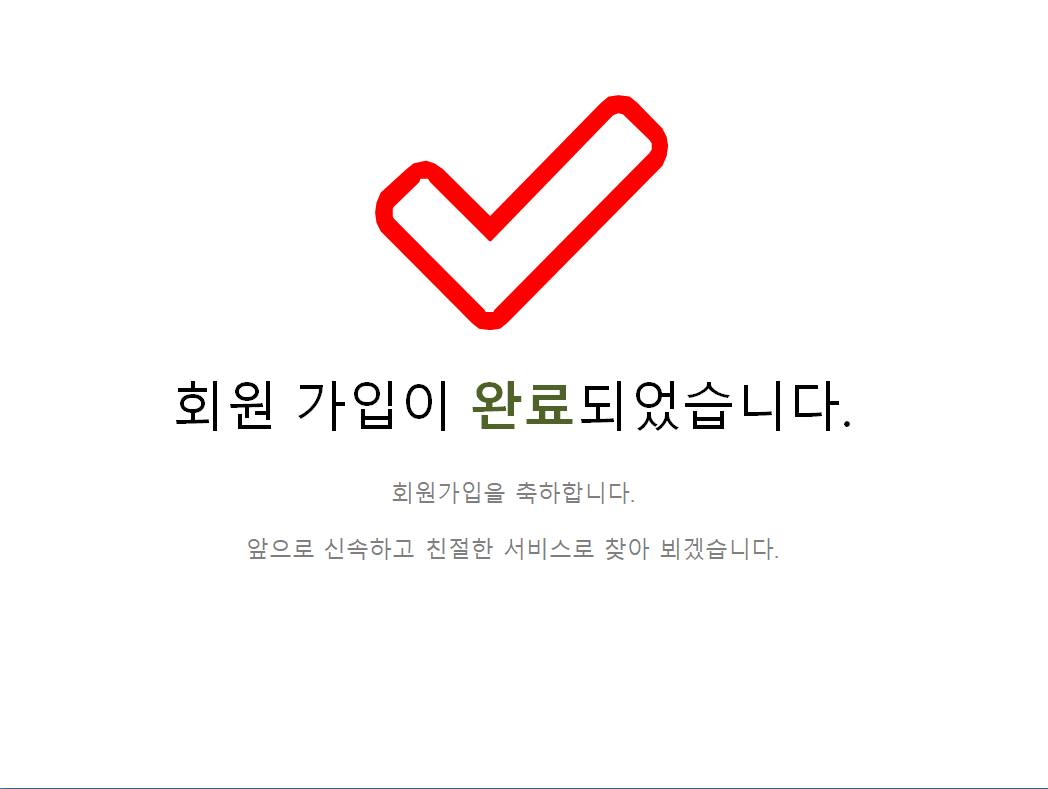
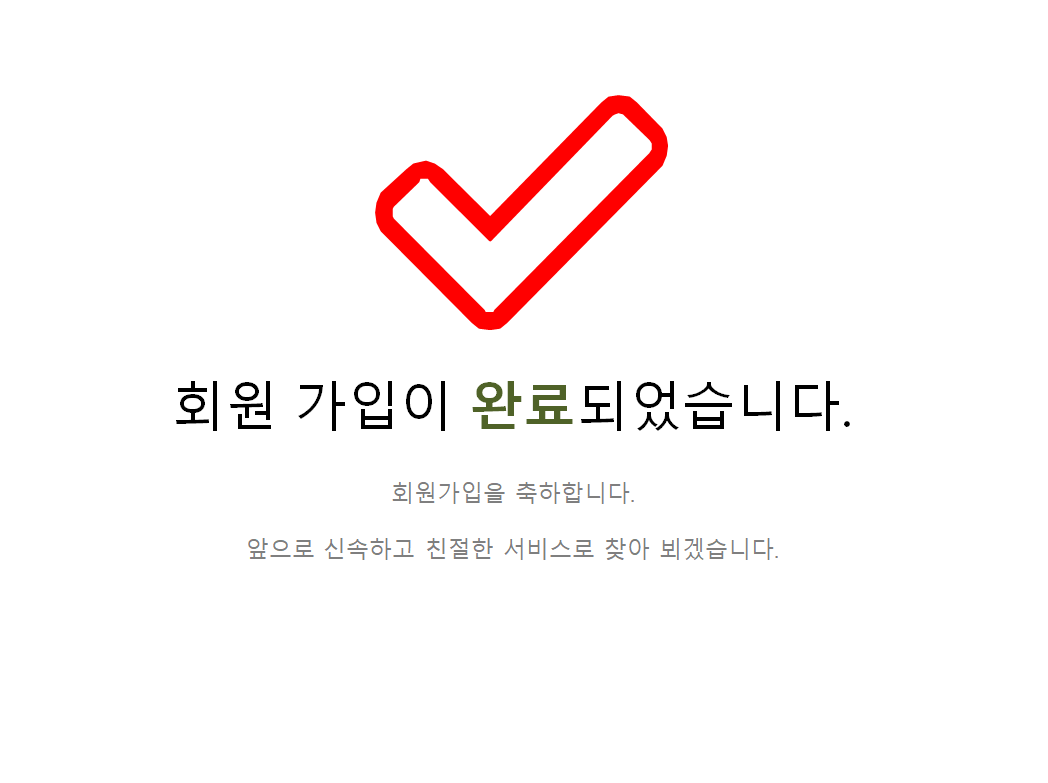
예술의 전당 > 멀티미디어 > 회원가입 - 신동준
정보입력 필드 수정, 회원가입 완료 사진 수정

diff --git a/webProject/WebContent/project/css/join.css b/webProject/WebContent/project/css/join.css
@@ -2,6 +2,12 @@
 
 #section1{
 	height: auto;
+	
+}
+
+#section1 .container{
+	text-align: center;
+	
 }
 
 #section1 .alert button:hover, .activeLogin, .activeLogin a{
@@ -9,17 +15,25 @@
 	background: #00bd39;
 }
 
-fieldset.frame {
-	width: 1040px;
-	padding: 20px 80px;
-	line-height: 80px;
-	border: 3px solid #00bd39;
-	margin-bottom: 20px;
+.shadow{
 	background: white;
+	box-shadow: 0px 5px 5px 0px rgba(0, 0, 0, 0.1);
+}
+
+fieldset.frame {
+	width: 500px;
+	padding: 10px 40px;
+	margin: 0px auto;
+	line-height: 80px;
+	border: none;
+    margin-bottom: 20px;
+    background: white;
 }
 
 fieldset.frame legend{
-	font-size: 40px;
+	height:10px;
+	text-align: center;
+	font-size: 25px;
 	font-weight: bold;
 	padding: 5px;
 	margin: 5px;
@@ -28,34 +42,38 @@ fieldset.frame legend{
 
 fieldset.frame label{
 	display: inline-block;
-	width: 350px;
+	width: 170px;
 	text-align: center;
-	font-size: 30px;
+	font-size: 20px;
 }
 
 fieldset.frame input{
-	width: 350px;
-	height: 50px;
-	font-size: 30px;
+	width: 170px;
+	height: 25px;
+	font-size: 15px;
 }
 
 fieldset.frame p{
-	height: 100px;
-	line-height: 62px;
+	height: 25px;
+	line-height: 30px;
 }
 
 fieldset.frame select{
-	width: 100px;
-	height: 50px;
-	font-size: 20px;
+	width: 50px;
+	height: 25px;
+	font-size: 10px;
 }
 
 fieldset.frame div.box{
 	width: 100%;
-	height: 40px;
-	line-height: 50px;
-    margin: 10px 0px 60px 0px;
+	height: 30px;
+    margin: 10px 0px 30px 0px;
 }
+
+fieldset.frame div.box:nth-child(2){
+    margin: 50px 0px 30px 0px;
+}
+
 
 fieldset.frame div.box strong{
 	color: red;
@@ -63,8 +81,11 @@ fieldset.frame div.box strong{
 }
 
 fieldset.frame input[type="button"]{
-	margin: 40px 20px 50px 260px;
+	width: 160px;
+    height: 40px;
+    margin: 40px 120px;
     background: #00bd39;
+    border: none;
 	color: white;
 	text-align: center;
 }

diff --git a/webProject/WebContent/project/html/join.html b/webProject/WebContent/project/html/join.html
@@ -49,7 +49,7 @@
 					return;
 				}
 				
-				var img = $("<img>").attr("src", "../image/join_complete.png");
+				var img = $("<img>").attr("src", "../image/join_complete.png").attr("width", "650px");
 				$("#section1 > div.container").html(img);
 				form.reset();
 			}
@@ -102,7 +102,7 @@
 		<section id="section1">
 			<div class="container">
 				<form action="" method="get" name="infoForm">
-					<fieldset class="frame">
+					<fieldset class="shadow frame ">
 						<legend>정보 기입</legend>
 						<div class="box">
 							<span>
@@ -128,7 +128,7 @@
 								<input type="password" name="in_pw" maxlength="20">
 							</span>
 						</div>
-						<input type="button" value="리뷰전송" onclick="formValid()">
+						<input type="button" value="회원가입" onclick="formValid()">
 					</fieldset>
 				</form>
 			</div>

diff --git a/webProject/WebContent/project/html/location.html b/webProject/WebContent/project/html/location.html
@@ -28,7 +28,7 @@
 				
 				// 정보 문구 생성
 				var contentString = "<h2>Majengo</h2>";
-				contentString += "<p>버스 정류장<br /> Ndovu Rd, Dodoma, 탄자니아</p>";
+				contentString += "<p>예술의 전당: 탄자니아 본점<br /> Ndovu Rd, Dodoma, 탄자니아</p>";
 				var infowindow = new google.maps.InfoWindow({
 					content: contentString
 				});
@@ -97,7 +97,7 @@
 		<!-- section ---------------------------- -->
 		<section id="section4">
 			<div class="container">
-				<h1>아프리카 버스 정류장</h1>
+				<h1>예술의 전당: 탄자니아 본점</h1>
 				<div id="map"></div>
 			</div>
 		</section>
